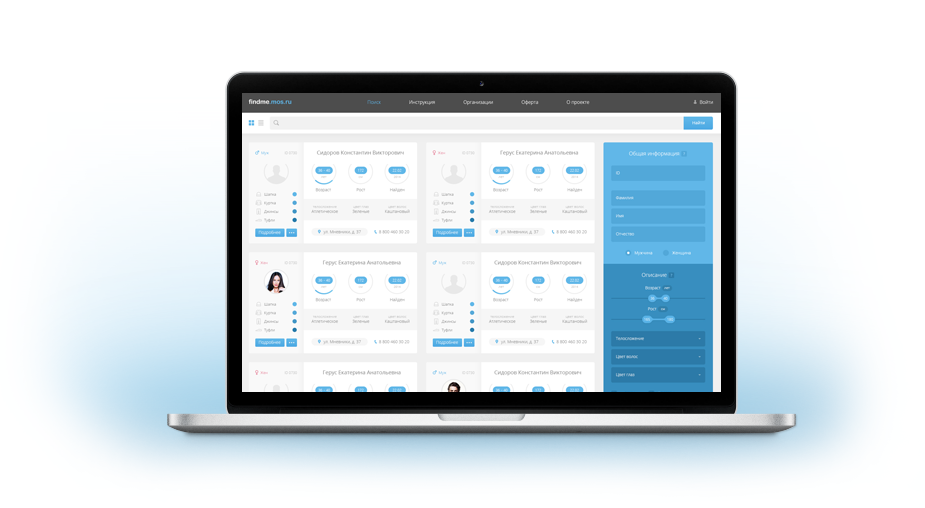
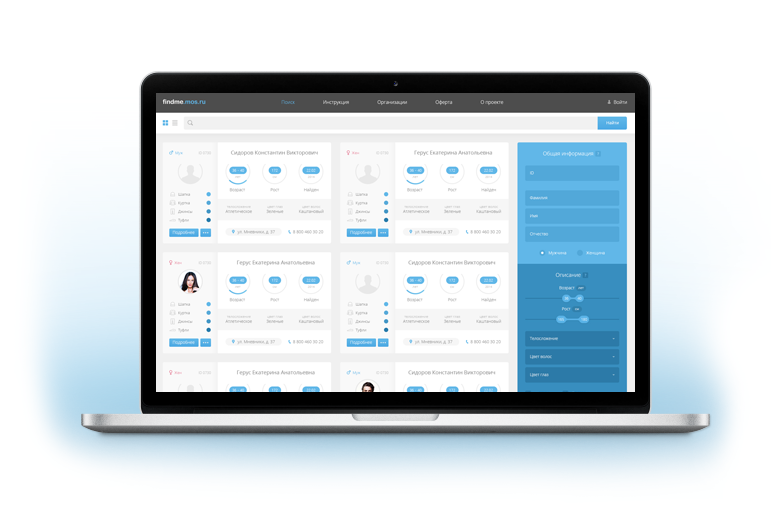
Правка: горизонтальный скролл на главной

diff --git a/site/css/home.css b/site/css/home.css
@@ -542,13 +542,13 @@ main .wrap {
 }
 main .wrap .bg {
   position: absolute;
-  right: -130px;
+  right: -80px;
   margin-top: -5px;
   top: 50%;
   -webkit-transform: translateY(-50%);
       -ms-transform: translateY(-50%);
           transform: translateY(-50%);
-  width: 925px;
+  width: 771px;
   height: 694px;
   background: url("../img/macbook.png") right center no-repeat;
 }
